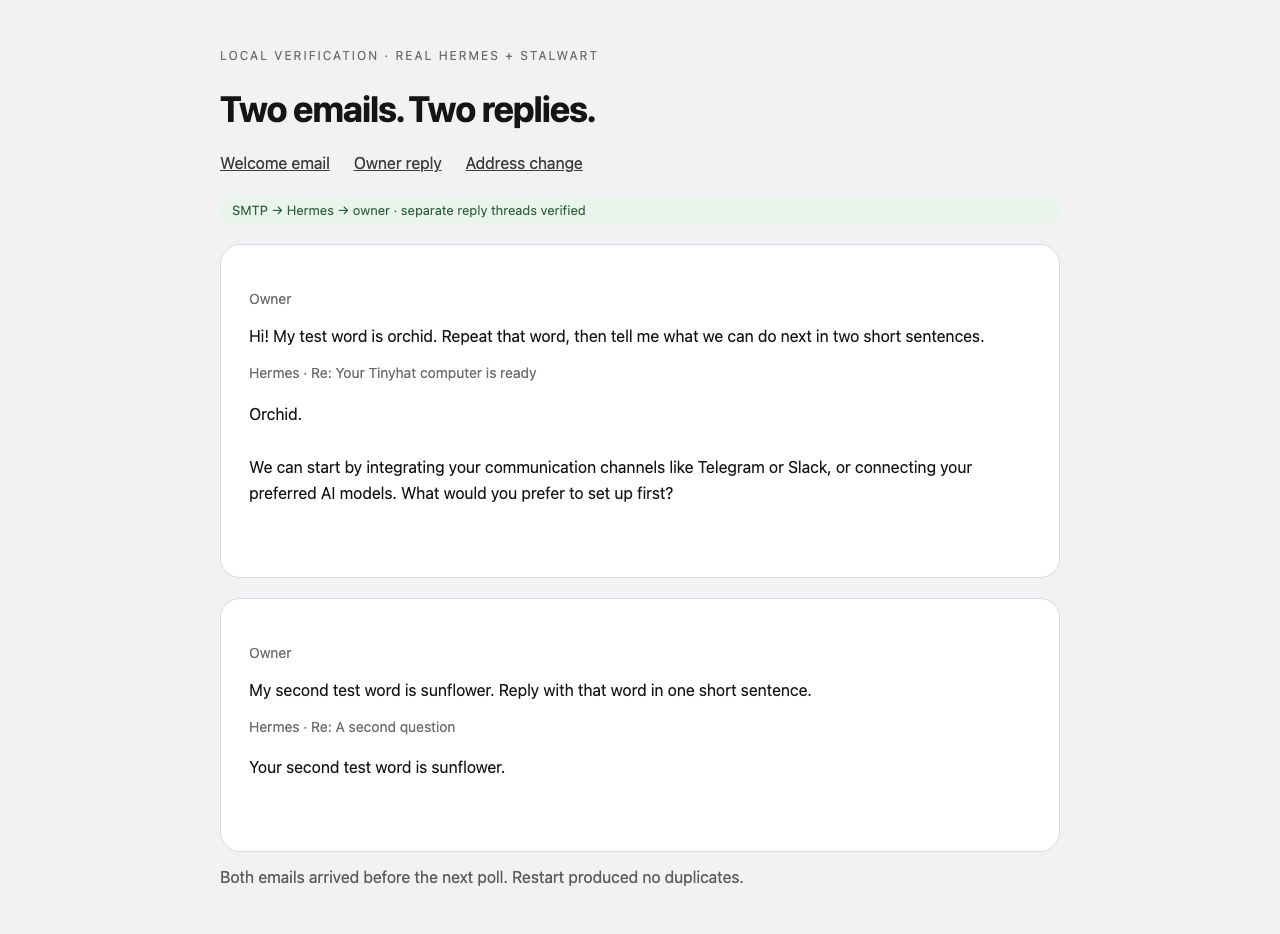
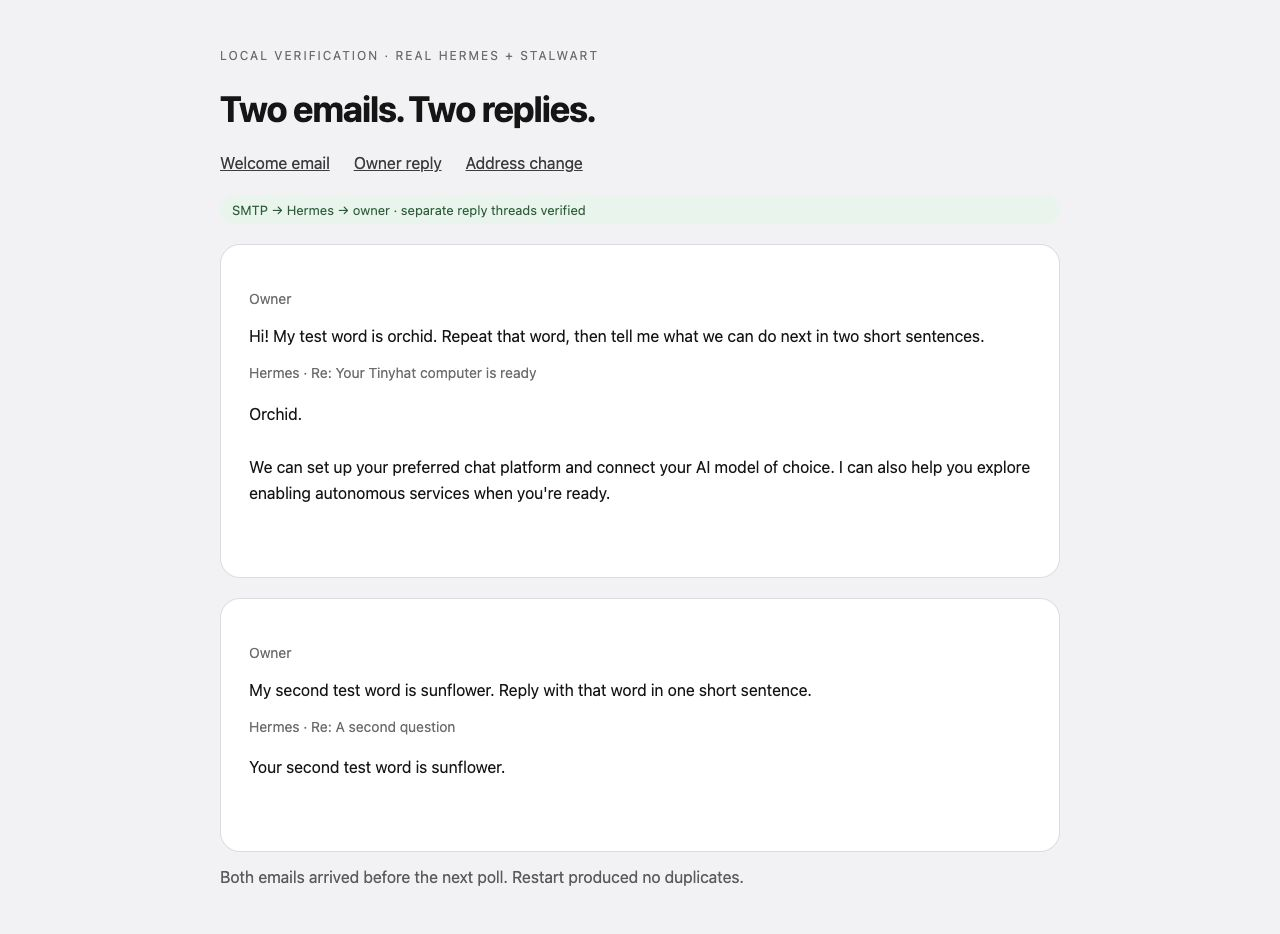
docs(mail): refresh received onboarding evidence
Show the latest real welcome and independently threaded replies, with an explicit timing boundary for the collision cooldown and no production delivery claim.

Changed region(s): [[0.1875, 0.4968, 0.8125, 0.5589]]

diff --git a/docs/verification/email-onboarding/README.md b/docs/verification/email-onboarding/README.md
@@ -9,8 +9,9 @@ All addresses shown are disposable fixtures.
 
 ![Actual received welcome](welcome.png)
 
-The welcome arrived 12.65 seconds after the conversation test started; both replies
-arrived by 32.19 seconds. These measure local email onboarding, not VM creation.
+The welcome arrived 72.91 seconds after the conversation test started; both replies
+arrived by 92.46 seconds. This run includes a deliberate address collision and the 60-second retry
+cooldown. These measure local email onboarding, not VM creation.
 Internet delivery and production inbox placement have not been tested here.
 
 Linux verification used a Python 3.13 container with Hermes installed, this
